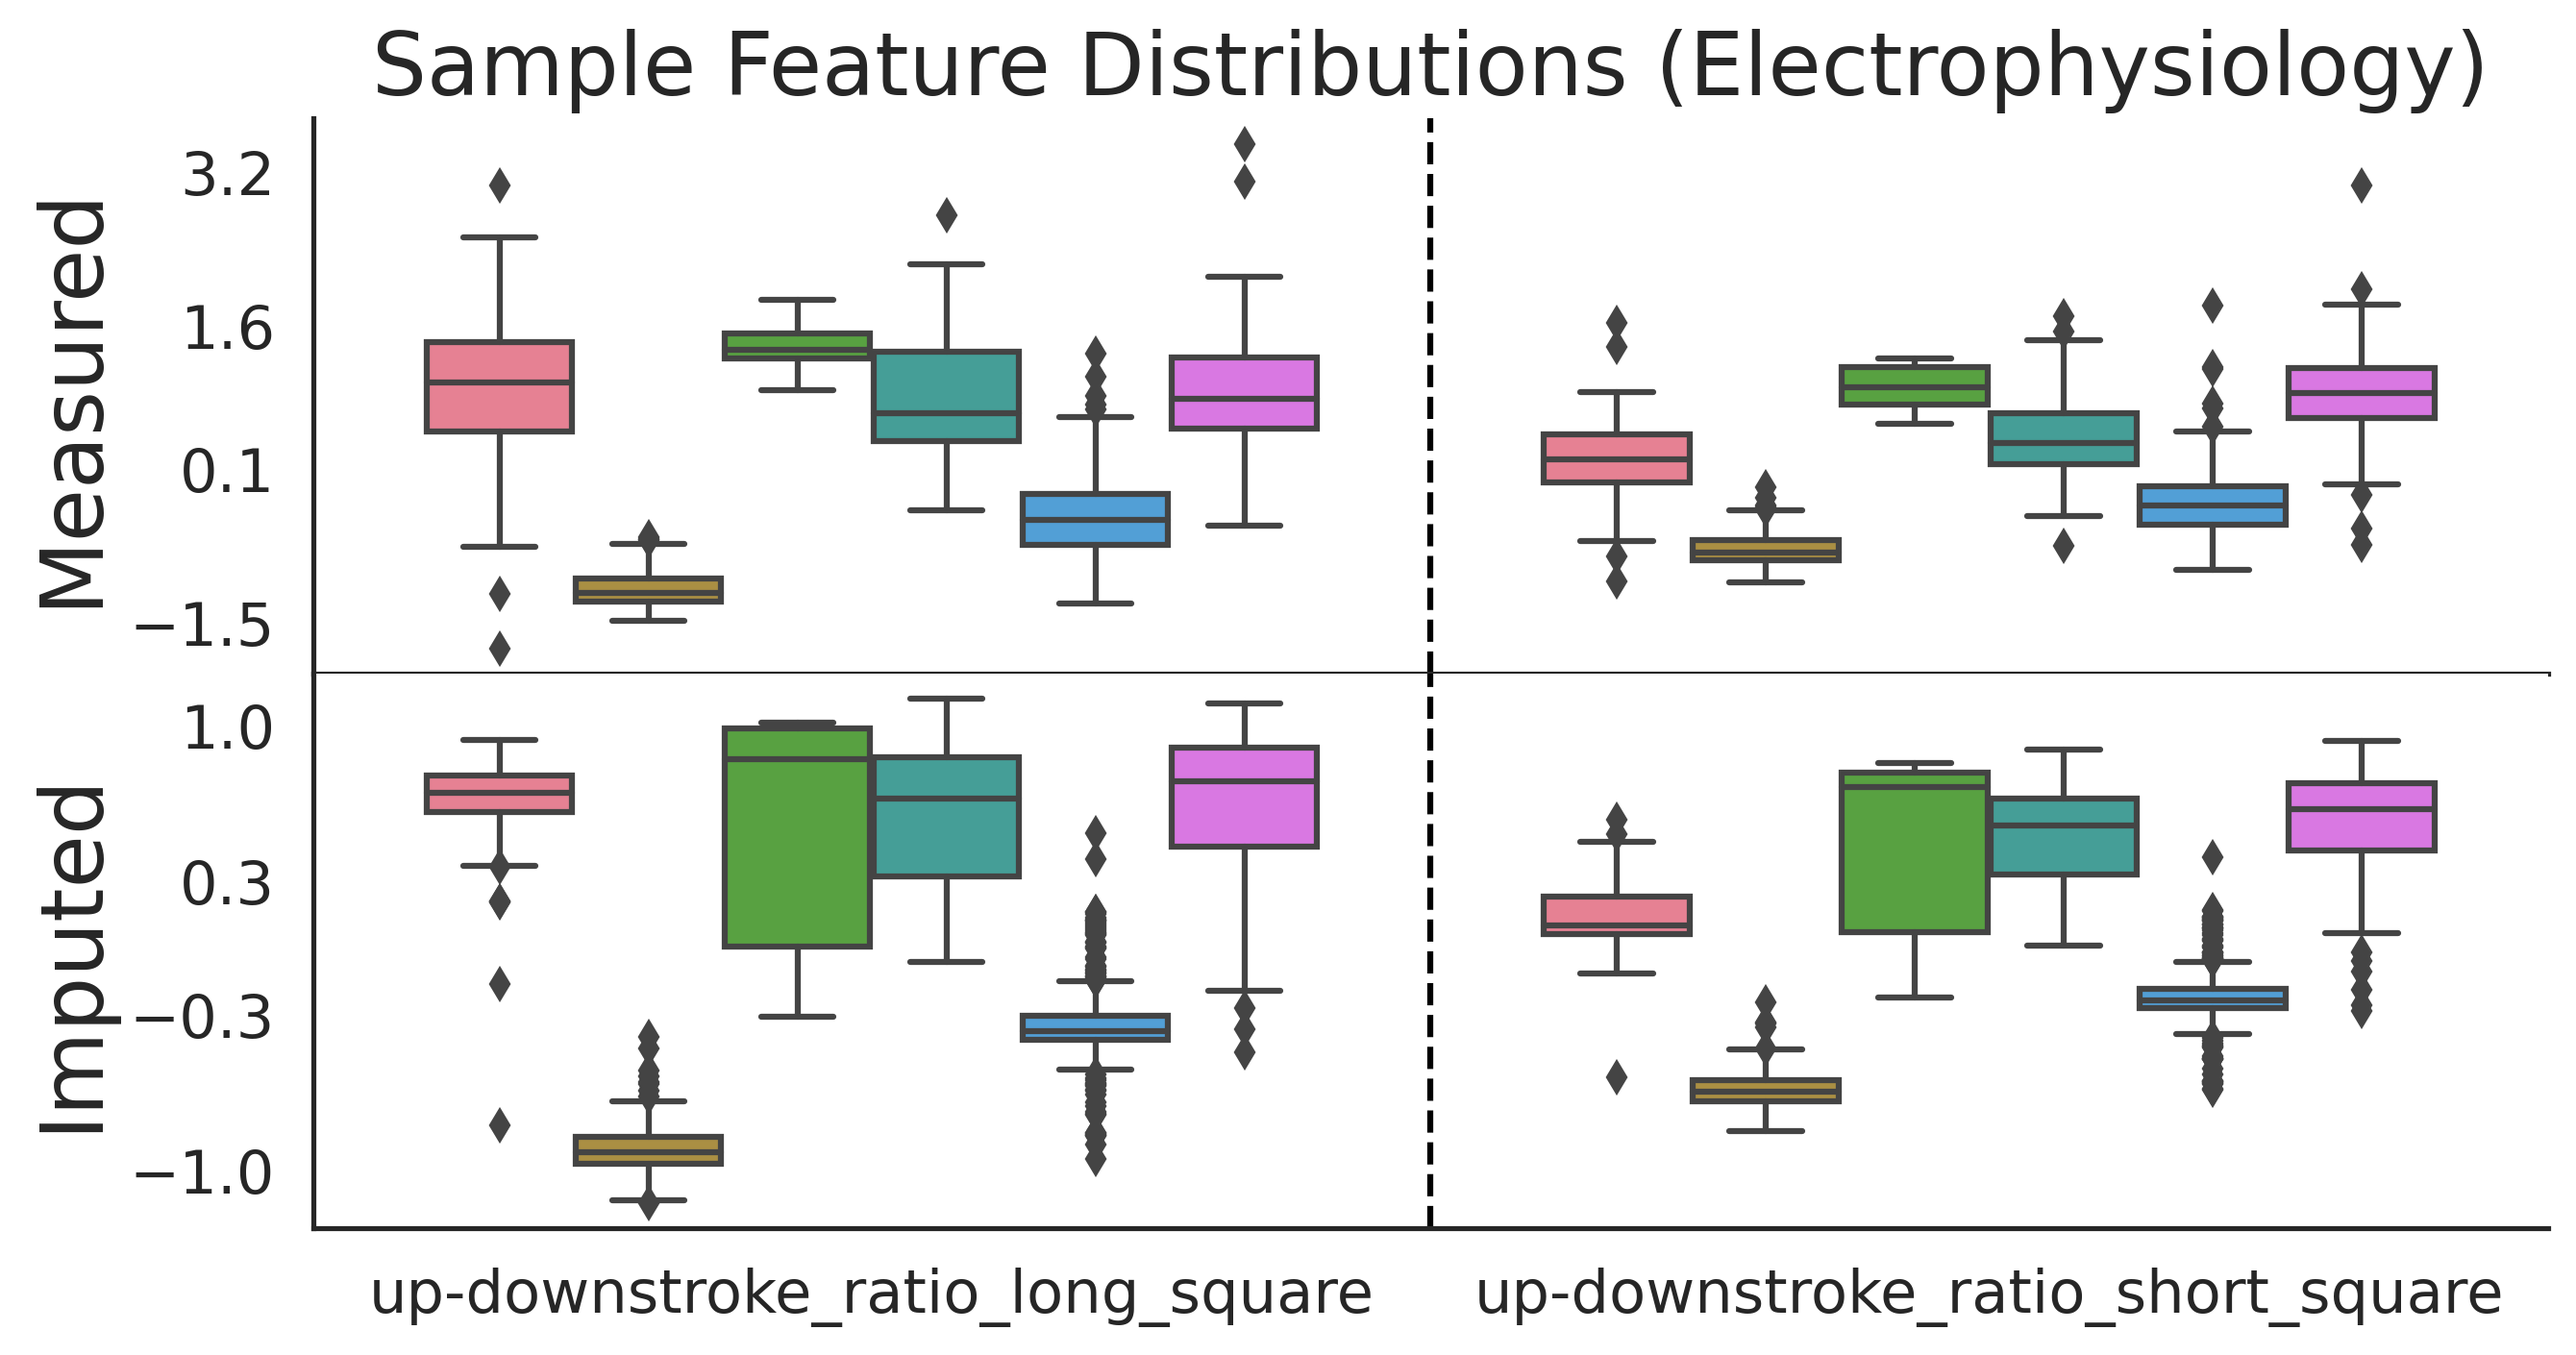
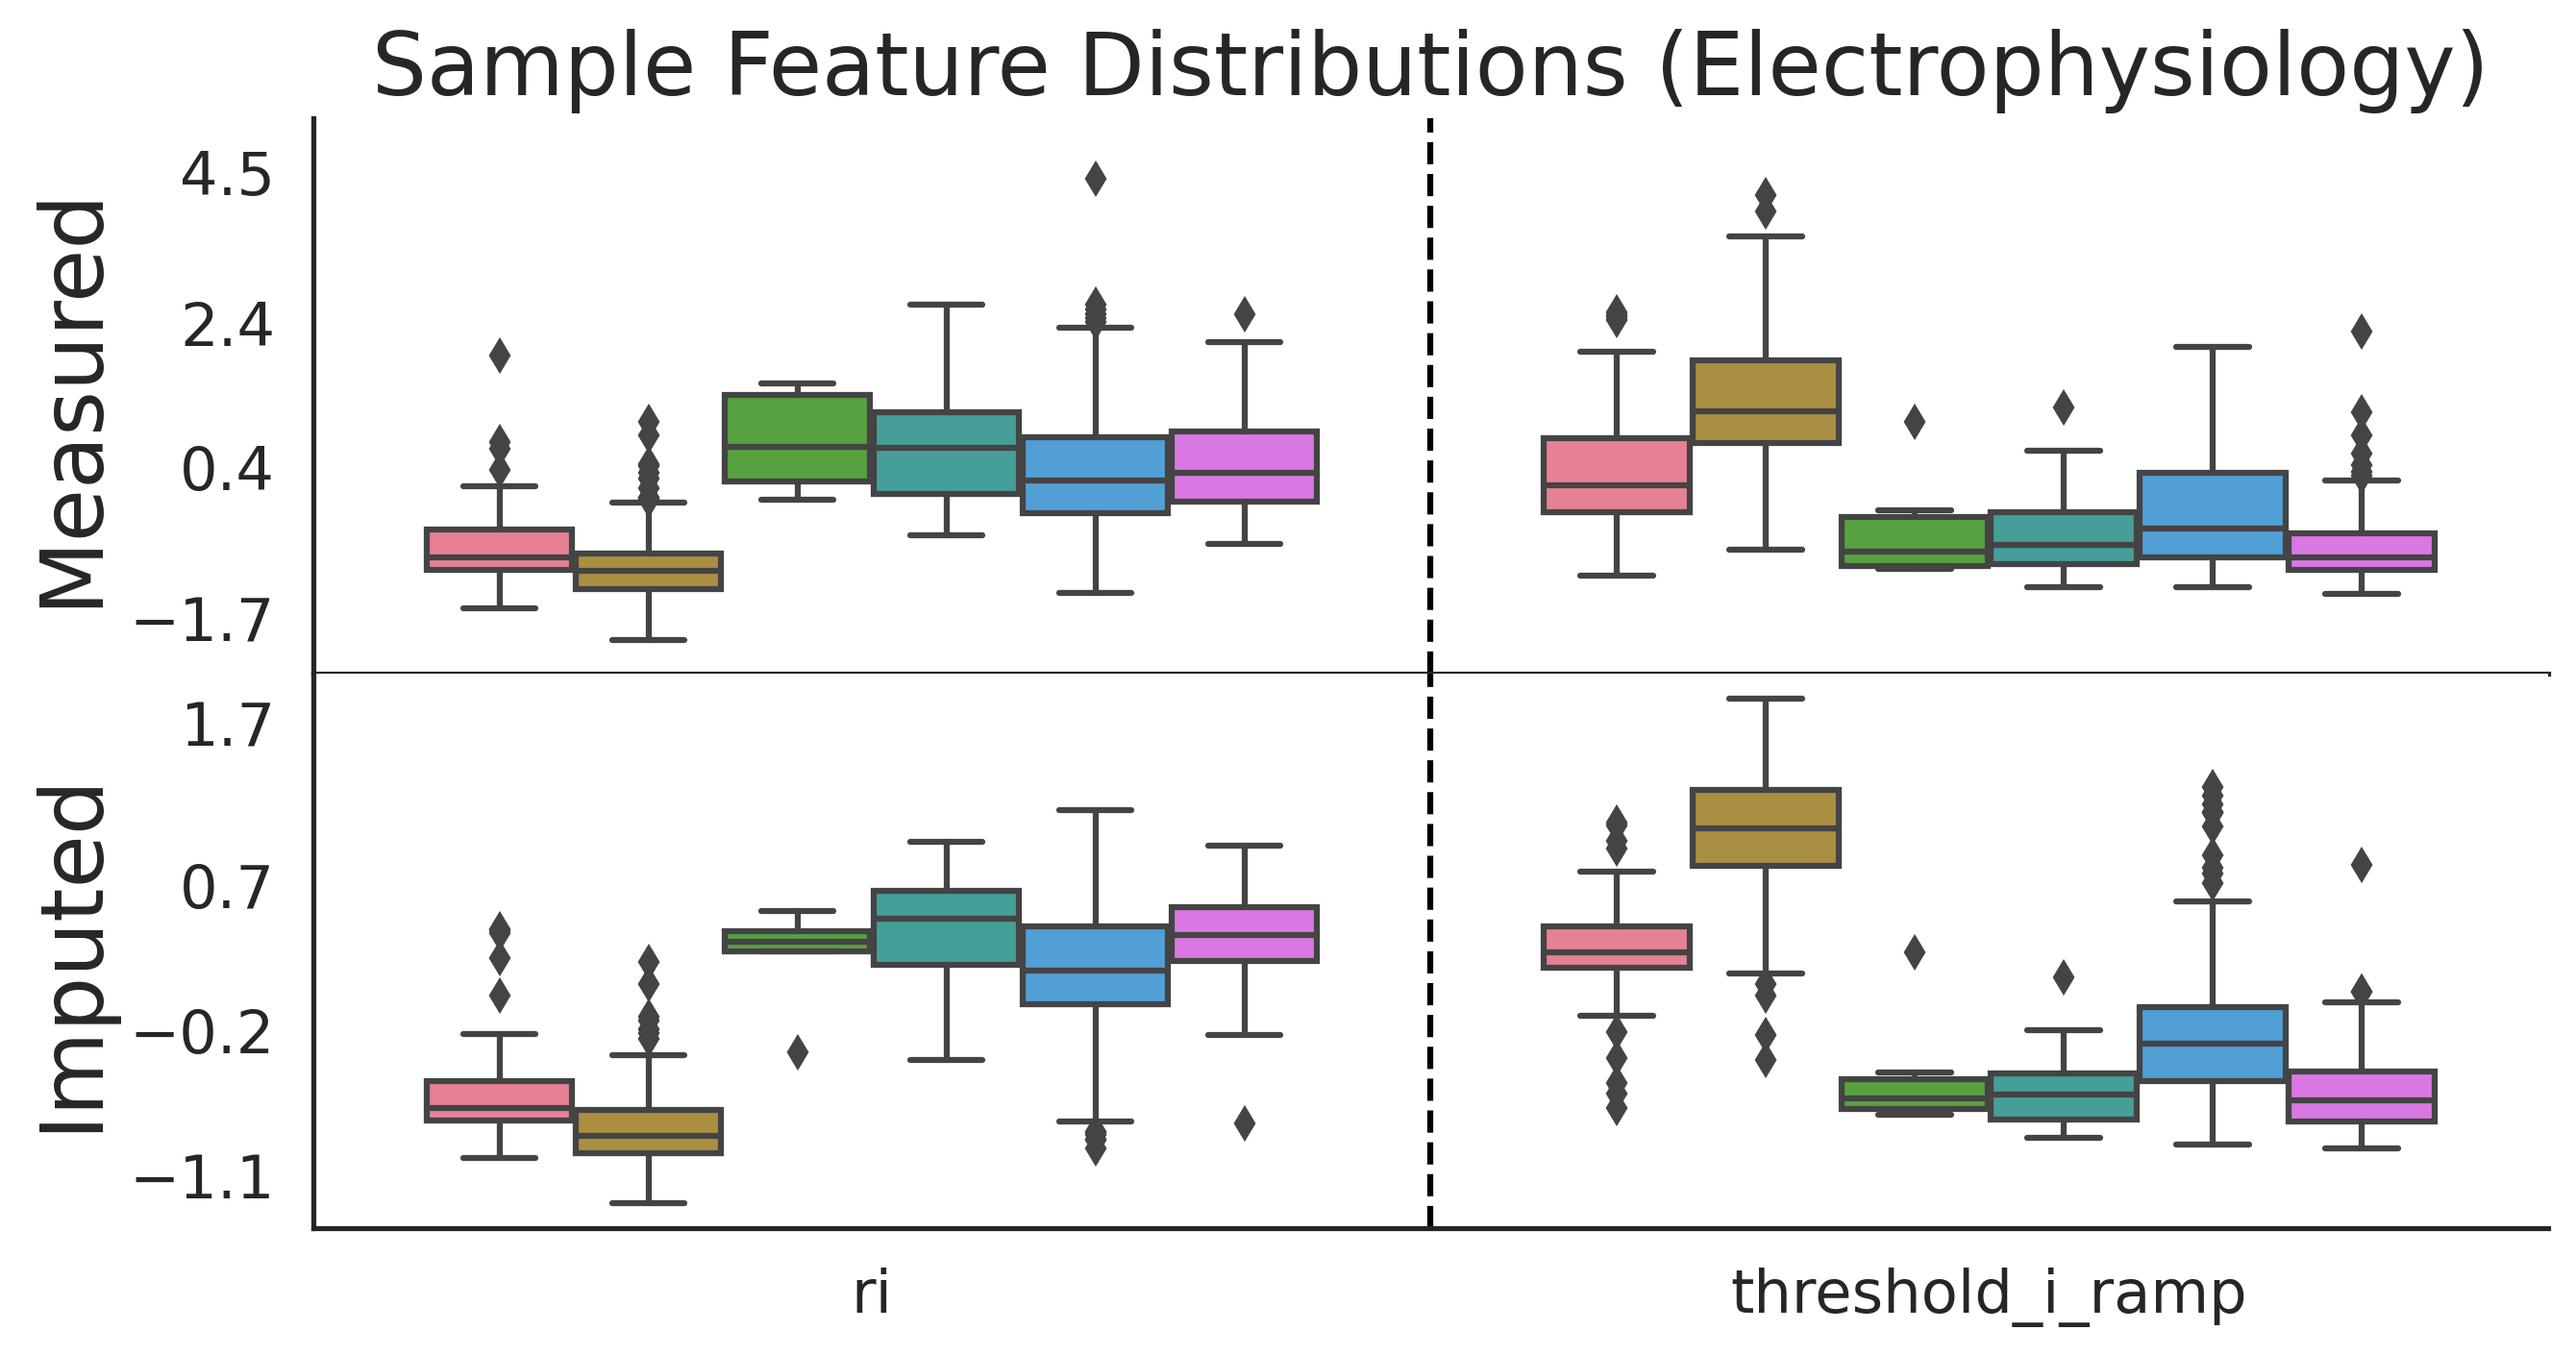
Runs, interest

diff --git a/jamie/utilities.py b/jamie/utilities.py
@@ -502,58 +502,11 @@ def tune_cm(cm, dataset, types, wt_size, num_search=20):
     return best_wt, best_cm_data
 
 
-def sort_by_interest(datasets, int_thresh=.8, limit=20, remove_outliers=True):
+def sort_by_interest(datasets, int_thresh=.8, limit=20, remove_outliers=True, sort_type='entropy-corr'):
     """Assesses datasets (real, imputed) and returns interesting indexes"""
+    assert sort_type in ('entropy-corr', 'js-mse', 'js', 'mse'), f'Unknown sort type {sort_type}.'
     if limit is None:
         limit = datasets[0].shape[1]
-
-    # Score by entropy and imputation performance
-    # Distribution
-    # X = np.linspace(0, 1, 1000)
-    if remove_outliers:
-        dataset0_features = [
-            datasets[0][~outliers(datasets[0][:, i]), i]
-            for i in range(datasets[0].shape[1])]
-    else:
-        dataset0_features = [datasets[0][:, i] for i in range(datasets[0].shape[1])]
-    distribution_true = [
-        np.histogram(d, bins=np.linspace(np.min(d), np.max(d), 100))[0] for d in dataset0_features
-    ]
-    # distribution_true = [stats.rv_histogram(d) for d in distribution_true]
-    # distribution_true = [[d.pdf(x) for x in X] for d in distribution_true]
-    # distribution_true = [d / sum(d) for d in distribution_true]
-    distribution_pred = [
-        np.histogram(
-            datasets[1][:, i],
-            bins=np.linspace(np.min(datasets[1][:, i]),
-            np.max(datasets[1][:, i]), 100))[0]
-            for i in range(datasets[0].shape[1])
-    ]
-    # distribution_pred = [stats.rv_histogram(d) for d in distribution_pred]
-    # distribution_pred = [[d.pdf(x) for x in X] for d in distribution_pred]
-    # distribution_pred = [d / sum(d) for d in distribution_pred]
-
-    # Entropy
-    entropy_arr = np.array([stats.entropy(t) for t in distribution_true])
-    entropy_arr[np.isnan(entropy_arr)] = 0
-    entropy_arr[np.isinf(entropy_arr)] = 0
-
-    # Corr
-    corr_arr = np.array([
-        stats.pearsonr(datasets[0][:, i], datasets[1][:, i])[0]
-        for i in range(datasets[0].shape[1])])
-    corr_arr[np.isnan(corr_arr)] = -1
-
-    # # Unique
-    # uniq_arr = np.array([
-    #     len(np.unique(datasets[0][:, i]))
-    #     for i in range(datasets[0].shape[1])])
-
-    # # MSE
-    # dist_arr = np.array([
-    #     np.mean(np.sum((datasets[0][:, i] - datasets[1][:, i])**2))
-    #     for i in range(datasets[0].shape[1])])
-    # dist_arr[np.isnan(dist_arr)] = np.inf
 
     # # KL
     # kl_arr = np.array([stats.entropy(t, p)
@@ -565,9 +518,69 @@ def sort_by_interest(datasets, int_thresh=.8, limit=20, remove_outliers=True):
     #     for t, p in zip(distribution_true, distribution_pred)])
     # ks_arr[np.isnan(ks_arr)] = 1
 
-    # Order
-    temp_order = np.argsort(5e-1*np.log(1+entropy_arr) + corr_arr)[::-1]  # + 1e-1*np.log(uniq_arr)
-    # temp_order = np.argsort(ks_arr - 5e-2*np.log(entropy_arr))
+    # # Unique
+    # uniq_arr = np.array([
+    #     len(np.unique(datasets[0][:, i]))
+    #     for i in range(datasets[0].shape[1])])
+
+    if sort_type == 'entropy-corr':
+        # Histograms
+        if remove_outliers:
+            dataset0_features = [
+                datasets[0][~outliers(datasets[0][:, i]), i]
+                for i in range(datasets[0].shape[1])]
+        else:
+            dataset0_features = [datasets[0][:, i] for i in range(datasets[0].shape[1])]
+        distribution_true = [
+            np.histogram(d, bins=np.linspace(np.min(d), np.max(d), 100))[0] for d in dataset0_features
+        ]
+        # distribution_pred = [
+        #     np.histogram(
+        #         datasets[1][:, i],
+        #         bins=np.linspace(np.min(datasets[1][:, i]),
+        #         np.max(datasets[1][:, i]), 100))[0]
+        #         for i in range(datasets[0].shape[1])
+        # ]
+
+        # Entropy
+        entropy_arr = np.array([stats.entropy(t) for t in distribution_true])
+        entropy_arr[np.isnan(entropy_arr)] = 0
+        entropy_arr[np.isinf(entropy_arr)] = 0
+
+        # Corr
+        corr_arr = np.array([
+            stats.pearsonr(datasets[0][:, i], datasets[1][:, i])[0]
+            for i in range(datasets[0].shape[1])])
+        corr_arr[np.isnan(corr_arr)] = -1
+
+        temp_order = np.argsort(5e-1*np.log(1+entropy_arr) + corr_arr)[::-1]
+
+    elif sort_type == 'js-mse':
+        # JS Distance
+        js_arr = [jensen_shannon_from_array([d[:, i] for d in datasets]) for i in range(datasets[0].shape[1])]
+
+        # Scaled MSE
+        dist_arr = np.array([
+            np.mean(np.sum( ((datasets[0][:, i] - datasets[1][:, i]) / np.std(datasets[1][:, i]))**2 ))
+            for i in range(datasets[0].shape[1])])
+        dist_arr[np.isnan(dist_arr)] = np.inf
+
+    elif sort_type == 'js':
+        # JS Distance
+        js_arr = [jensen_shannon_from_array([d[:, i] for d in datasets]) for i in range(datasets[0].shape[1])]
+
+        # Order
+        temp_order = np.argsort(js_arr)
+
+    elif sort_type == 'mse':
+        # Scaled MSE
+        dist_arr = np.array([
+            np.mean(np.sum( ((datasets[0][:, i] - datasets[1][:, i]) / np.std(datasets[1][:, i]))**2 ))
+            for i in range(datasets[0].shape[1])])
+        dist_arr[np.isnan(dist_arr)] = np.inf
+
+        # Order
+        temp_order = np.argsort(dist_arr)
 
     # Filter for interest and diversity
     feature_idx = []

diff --git a/jamie/evaluation.py b/jamie/evaluation.py
@@ -677,6 +677,7 @@ def plot_distribution_alone(
     rows=2,
     remove_outliers=True,
     equal_axes=False,
+    sort_type='entropy-corr',
     feature_dict={},
     **kwargs,
 ):
@@ -694,7 +695,8 @@ def plot_distribution_alone(
     feature_limit = feature_limit if feature_limit is not None else datasets[0].shape[1]
     feature_idx = sort_by_interest(datasets,
                                    limit=feature_limit,
-                                   remove_outliers=remove_outliers)[1]
+                                   remove_outliers=remove_outliers,
+                                   sort_type=sort_type)[1]
     datasets = [data[:, feature_idx] for data in datasets]
     # if remove_outliers:
     #     filter = outliers(datasets[0], verbose=True)
@@ -763,10 +765,12 @@ def plot_distribution_alone(
             ax.set_title(None)
         ax.set_ylabel(names[i])
         ax.legend([], [], frameon=False)
+
+    # Remove outliers
     if remove_outliers:
         for i in range(len(axs)):
-            ax = axs[i] if not equal_axes else axs[0]
-            d = datasets[i] if not equal_axes else datasets[0]
+            ax = axs[i]
+            d = datasets[i]
             new_ylim = outliers(d, return_limits=True)[1]
             stretch=1.5
             new_ylim = (
@@ -774,6 +778,13 @@ def plot_distribution_alone(
                 np.max(new_ylim[1]+stretch*new_ylim[2]))
             new_ylim = (max(new_ylim[0], ax.get_ylim()[0]), min(new_ylim[1], ax.get_ylim()[1]))
             axs[i].set_ylim(new_ylim)
+
+    # Equal ylims
+    if equal_axes:
+        new_ylims = (min(ax.get_ylim()[0] for ax in axs), max(ax.get_ylim()[1] for ax in axs))
+        for ax in axs:
+            ax.set_ylim(new_ylims)
+
     for ax in axs:
         set_yticks(ax, 4)
     plt.gcf().subplots_adjust(hspace=0)

diff --git a/jamie/_meta.py b/jamie/_meta.py
@@ -1,1 +1,1 @@
-__version__ = '4.3.0-pre9'
+__version__ = '4.3.0-pre10'

diff --git a/CHANGELOG.md b/CHANGELOG.md
@@ -2,6 +2,7 @@
 - Add memory logging
 - Added `hybrid` method to `plot_integrated`
 - Added `plot_sample` for showing individual cell correlations
+- Added `sort_type` option to `sort_by_interest` utility function
 - Fixed ordering for `plot_distribution_alone`
 - More runs, more data
 - Visualization fixes
